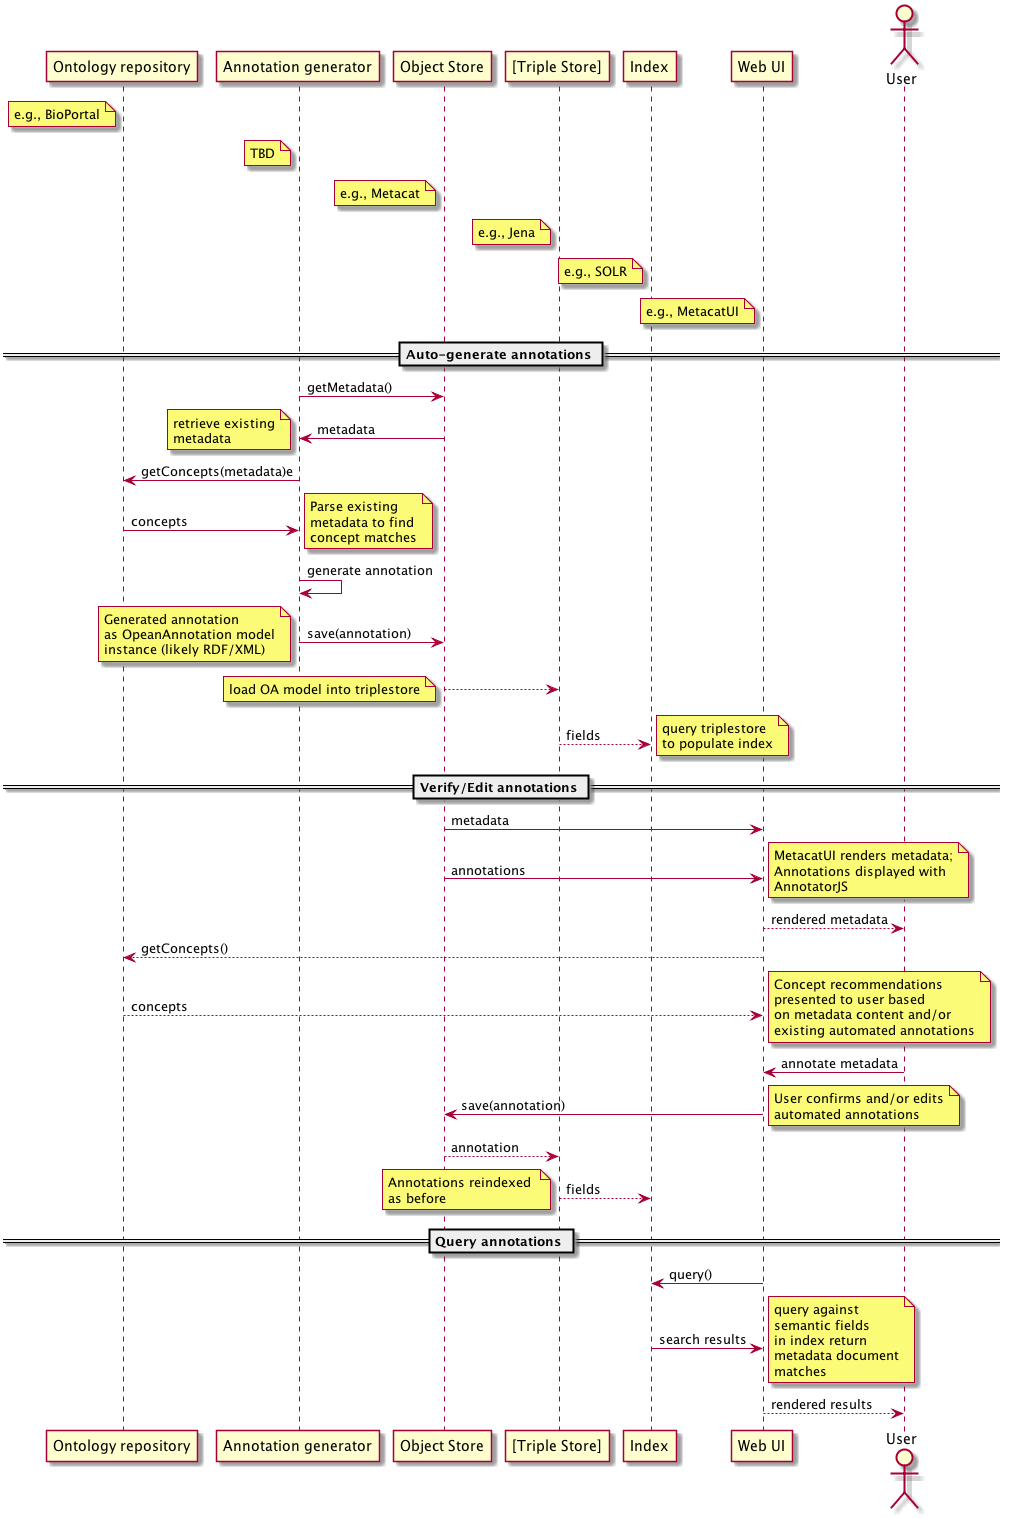
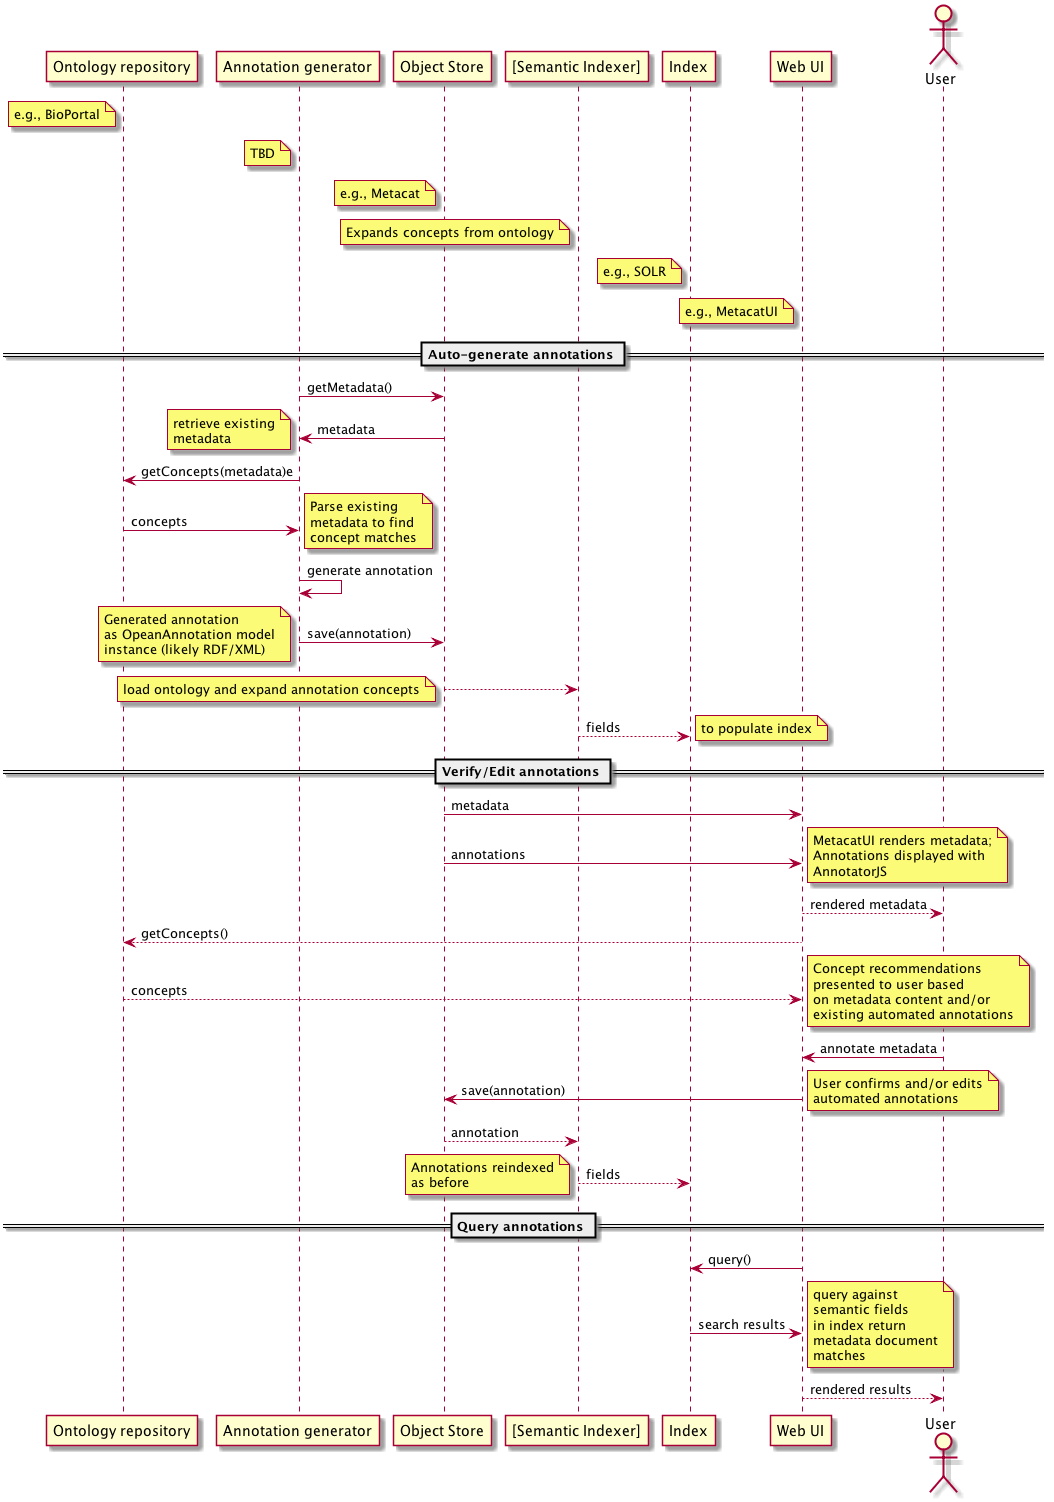
revisit annotator architecture diagrams and descriptions. Include more specific project references to describe exactly what is happening as annotations are saved.

diff --git a/docs/use-cases/semantics/architecture.rst b/docs/use-cases/semantics/architecture.rst
@@ -26,11 +26,12 @@ There will be a component for indexing and querying annotations.
 Model
 ------------------
 The OA ontology (http://www.openannotation.org/spec/core/) is attractive for capturing and transferring annotations. But the AnnotatorJS 
-library does not yet support this serialization in released 1.x versions.
+library does not yet support this serialization in released 1.x versions. It is on their roadmap for 2.x releases, but this has been 
+years in the making.
 The serialization of annotations can take multiple forms and can be included in other objects that may already be indexed by DataONE.
 Some examples include:
 
-* Atomic OA documents that contain one or more annotations (sserialized as RDF/XML and/or) JSON-LD
+* Atomic annotation documents that contain one or more annotations (serialized as RDF/XML and/or) JSON-LD
 * Extended ORE documents	
 * Embedded OA annotations in XML metadata (e.g., EML's additionalMetadata section)
 
@@ -144,16 +145,52 @@ Proposed components
 	  
 	@enduml
 	
+
+
+Implementation details
+----------------------
+The following projects, components, and libraries are used for supporting semantic annotation in DataONE.
+
+* annotator - https://github.com/DataONEorg/annotator
+This project contains classes for parsing metadata, querying BioPortal and ESOR services for annotation recommendations, 
+as well as generating AnnotatorJS formatted annotations from manually-constructed spreadsheets for the P/R runs.
+The Annotator project also includes an AnnotatorJS storage implementation that uses the DataONE MN API to store and retrieve 
+annotation objects from a Member Node. The AnnotatorRestServlet exposes the API that AnnotatorJS expects calls the appropriate 
+D1 methods as needed. This servlet can be deployed in any webapp, but currently it is included in the d1_portal_servlet project
+for ease of deployment in a central location. This can seem a little odd in that the servlet is deployed on a CN yet it uses a [configureable]
+MN to store the objects. Remember that CNs do not accept objects directly and can only harvest content from MNs - that's why this is
+structured as it is. 
+
+* d1_portal_servlet - https://repository.dataone.org/software/cicore/trunk/d1_portal_servlet/
+For convenience, the Annotator Servlet is included as another servlet in the portal deployment. There is no 
+requirement that it be deployed here, it was simpler than incorporating into the CN REST webapp during initial 
+development and proof-of-concepting. See the web.xml to un/comment the intializion of the annotator service.
+
+* MetacatUI - https://github.com/NCEAS/metacatui/
+Semantic work has been done on the master branch of MetacatUI, largely in the DataONE theme though it is available in any theme if configured. 
+The UI interacts with many different systems to support semantic search, annotation display and editing. Semantic queries are 
+straightforward in that they act just like any other SOLR field query. We search using concept URIs and a user selects the concepts 
+they are interested in by selecting from a BioPortal-driven ontology tree.
+When viewing the detailed metadata record for a datapackage, all annotations for that objects PID are retrieved from the annotation store 
+by the AnnotatorJS library and the annotations are rendered in the DOM. Note that this relies HEAVILY on the existing DOM structure and the xoaths 
+in each annotation are crucial for aligning the content of the metadata with the annotations that pertain to those sections of the document.
+See the annotation model documentation for more details on each field of the annotation itself.
+
+* BioPortal - http://bioportal.bioontology.org/ontologies/ECSO
+We use BioPortal to store the ECSO ontology so that tree widgets in the MetacatUI can be easily rendered with slick look-aheads 
+and label+definition information programmatically available. The Bioportal API is well-documented and their support personell are
+keen to assist if there are any issues. http://data.bioontology.org/documentation
+
 	
 Annotation life-cycle
 ---------------------
-This figure attempts to show the route that annotations take throughout
-the system. First, automated annotations are generated from existing metadata,
-then the annotation is saved to the object store, then an indexing process loads the 
-referenced ontology to use a semantic query to extract index fields
-from it that are saved to the SOLR index.
-Finally, the UI shows the search results and annotation details for further manual editing 
-of the annotations.
+This figure attempts to show the route that annotations take throughout the system. 
+* First, automated annotations are generated (d1 annotator project) from existing metadata (fetched from a D1 node),
+* Then the annotation is saved to the object store (AnnotatorJS store implementation deployed within d1_portal_servlet), 
+* Then the indexing process (d1_index_processor) loads the referenced ontology and uses a semantic query to find index fields
+that are saved to the SOLR index.
+* Finally, the UI (MetacatUI) shows the search results and annotation details for further manual editing 
+of the annotations (AnnotatorView.js, mostly).
 
 .. image:: images/annotation_flow.png
 
